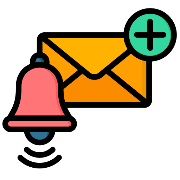
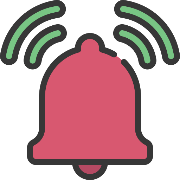
change notify service assets

diff --git a/full-assets/README.md b/full-assets/README.md
@@ -8,7 +8,7 @@ The following icons are used in this repository. Usage requires proper attributi
 - **Pastebin** - [Clipboard icons](https://www.flaticon.com/free-icons/clipboard) created by Smashicons - Flaticon  
 - **Search** - [Search icons](https://www.flaticon.com/free-icons/search) created by Freepik - Flaticon  
 - **Invid** - [Play button icons](https://www.flaticon.com/free-icons/play-button) created by Freepik - Flaticon  
-- **Notify** - [Notify icons](https://www.flaticon.com/free-icons/notify) created by Elzicon - Flaticon  
+- **Notify** - [Notified icons](https://www.flaticon.com/free-icons/notified) created by juicy_fish - Flaticon   
 - **Documentation** - [Book icons](https://www.flaticon.com/free-icons/book) created by Freepik - Flaticon  
 - **Dashboard** - [Layout icons](https://www.flaticon.com/free-icons/layout) created by Vector Bazar - Flaticon  
 
